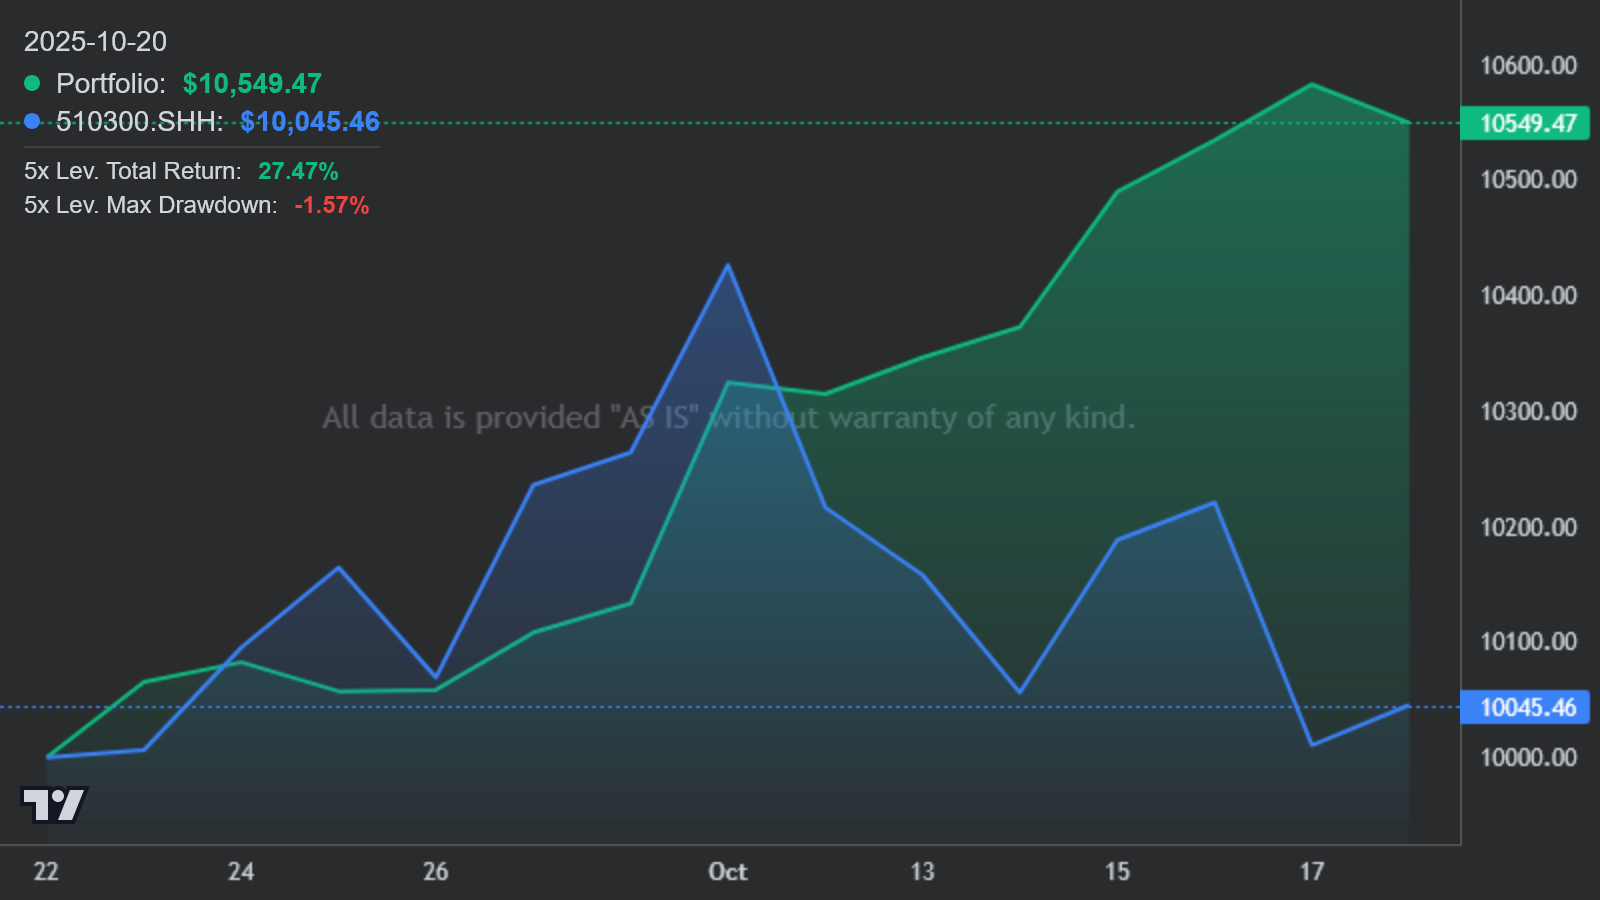
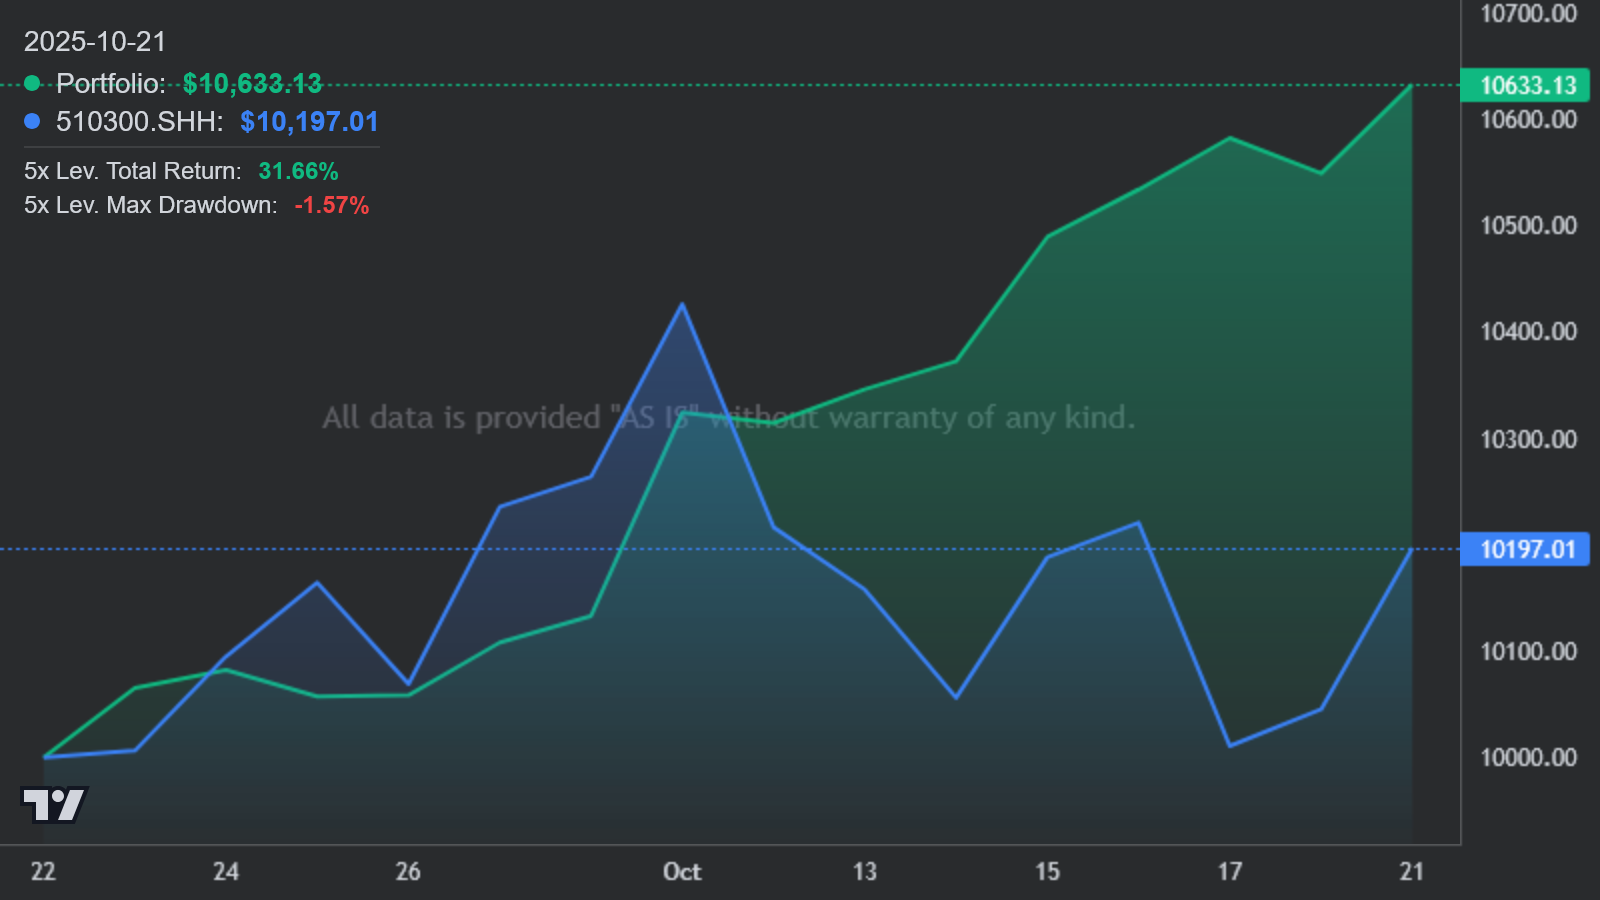
feat: update portfolio data and chart with latest market values
- Update stock data cache files with latest closing prices
- Regenerate portfolio chart and metrics with new data
- Change default API key placeholder value

diff --git a/generate_report.py b/generate_report.py
@@ -17,7 +17,7 @@ from zoneinfo import ZoneInfo # 新增导入，用于处理时区
 
 # --- 配置参数 ---
 
-API_KEY = os.getenv("ALPHA_VANTAGE_API_KEY") if os.getenv("ALPHA_VANTAGE_API_KEY") else "TQONN184ZFV8GHJG"
+API_KEY = os.getenv("ALPHA_VANTAGE_API_KEY") if os.getenv("ALPHA_VANTAGE_API_KEY") else "114514"
 if not API_KEY:
     raise ValueError("ALPHA_VANTAGE_API_KEY environment variable not set.")
 CACHE_DIR = "data_cache"
